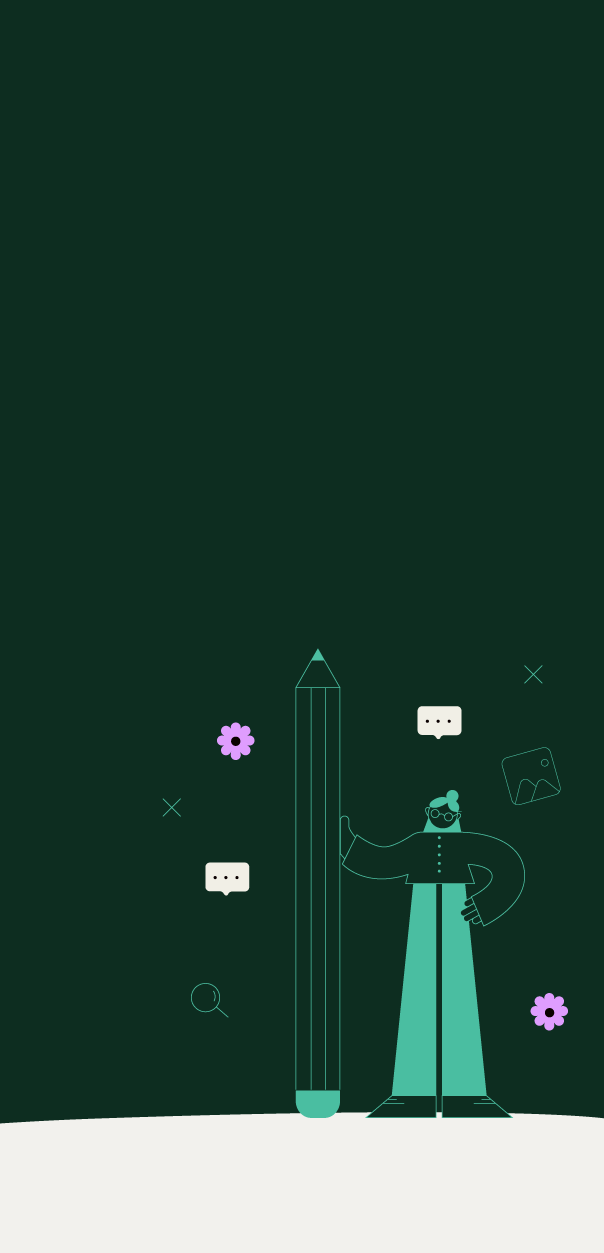
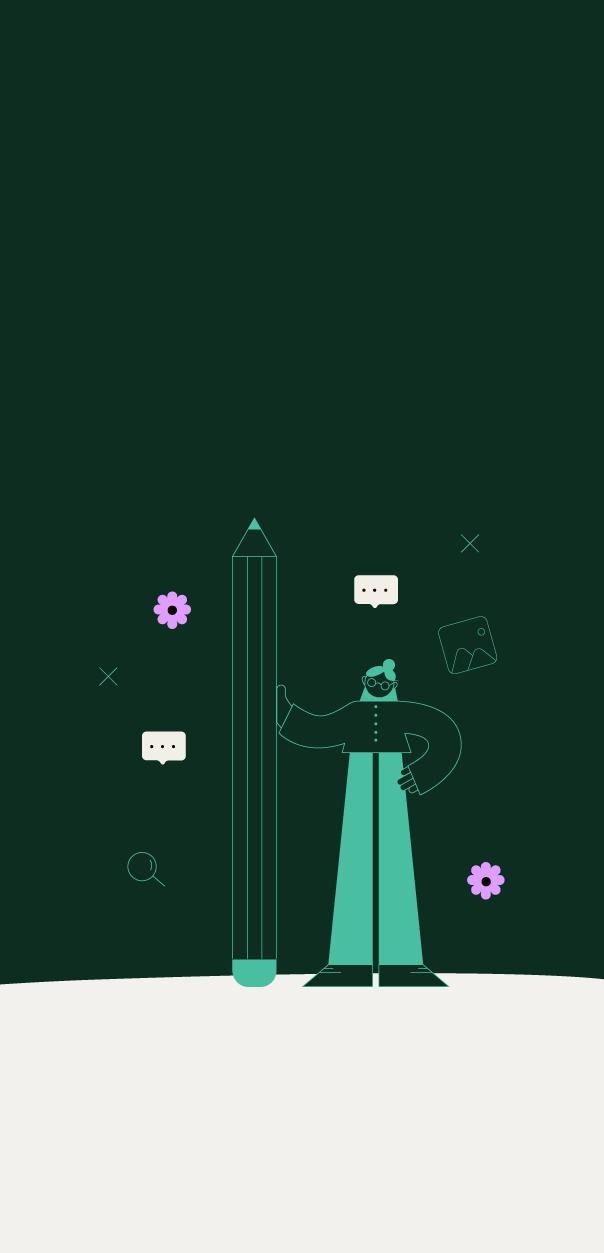
22 upload

diff --git a/style2.css b/style2.css
@@ -69,7 +69,6 @@ nav li a:hover {
 #page1 {
   display: flex;
   justify-content: space-between;
-  align-items: center;
   width: 100%;
   height: auto;
   padding:130px 0px;
@@ -172,7 +171,7 @@ footer {
   padding: 20px 85px 20px 20px;
 }
 
-@media screen and (max-width: 900px) {
+@media  (max-width: 900px) {
 
   #navbar {
       padding: 10px 20px;
@@ -252,22 +251,24 @@ footer {
     margin-top: 20px;
     margin-bottom: 100px;
     height: auto;
-    text-align: center;
+    flex-direction: column;
+    padding-bottom: 0;
   }
-  
+
 
   .back-to-home {
-    margin-left: 20px;;
+    margin-right: 0;
+    margin-left: 0px;;
     margin-top: 20px;
     font-size: 18px;
   }
  .project-info {
-  margin-left: 20px;
-  margin-right: 20px;
+  margin-left: 25px;
+  margin-right: 25px;
   }
 
   .project-info h2 {
-    margin-left: 50px;
+    margin-left: 0px;
     font-size: 30px;
   }
 
@@ -280,27 +281,30 @@ footer {
   }
 
   h3 {
-    margin-left: 50px;
+    margin-right: 0;
+    margin-left: 0px;
     font-size: 24px;
   }
-  p{
-    margin-left: 50px;
+#page1  p{
+  margin-right: 0;
+    margin-left: 0px;
     font-size: 18px;
   }
 #page1 li{
-  margin-right: 50px;
-margin-left: 20px;}
+  margin-right: 0px;
+  font-size: 18px;
+margin-left: 0px;}
 
   .project-details {
     margin: 30px 50px;
   }
 
   .project-info img {
-    max-height: 200px;
-    margin: 20px;}
+    max-width: 100%;
+    margin: 20px 0;}
 
 
-    .next{
+    .next {
       position: absolute;
       right: 20px;
       bottom: -60px;
@@ -309,8 +313,10 @@ margin-left: 20px;}
 
     footer p{
       font-size: 14px;
+      text-align: center;
     }
     footer{
+      padding: 20px;
       width: 100%;
     }
   }

diff --git a/style.css b/style.css
@@ -512,8 +512,8 @@ footer {
 
 #hero {
   background-image: url(Images/gb-mobile.png);
-align-items: center;
-text-align: left;
+ align-items: center;
+ text-align: left;
 }
 
   .hero-row {
@@ -523,17 +523,23 @@ text-align: left;
   }
  .hero-col-left {
     position: absolute;
-    top:20%;
+    top:130px;
     max-width: 100%;
     order: 1;
   }
   #hero h1{
-  font-size: 2.2em; }
+  font-size: 2.2em;
+  line-height: 0.8;
+}
+
   #hero p{
   display: none;}
 
   .hero-col-right  {
     display: none;
+  }
+  #hero button{
+    margin-top: 30px;
   }
 
 
@@ -552,7 +558,7 @@ text-align: left;
   }
   #about .about-row {
     height: auto;
-    padding: 50px 20px;
+    padding: 0px 25px 50px 25px;
   }
 
   #about .col-left img {
@@ -571,9 +577,12 @@ text-align: left;
 margin-bottom: 30px;
 padding-top: 50px;
   }
+  #portfolio .card-container{
+    padding:0px 5px;
+  }
   .contact-row {
     flex-direction: column;
-    padding: 50px 20px;
+    padding: 30px 25px;
   }
   #contact .col-left,
   .col-right {
